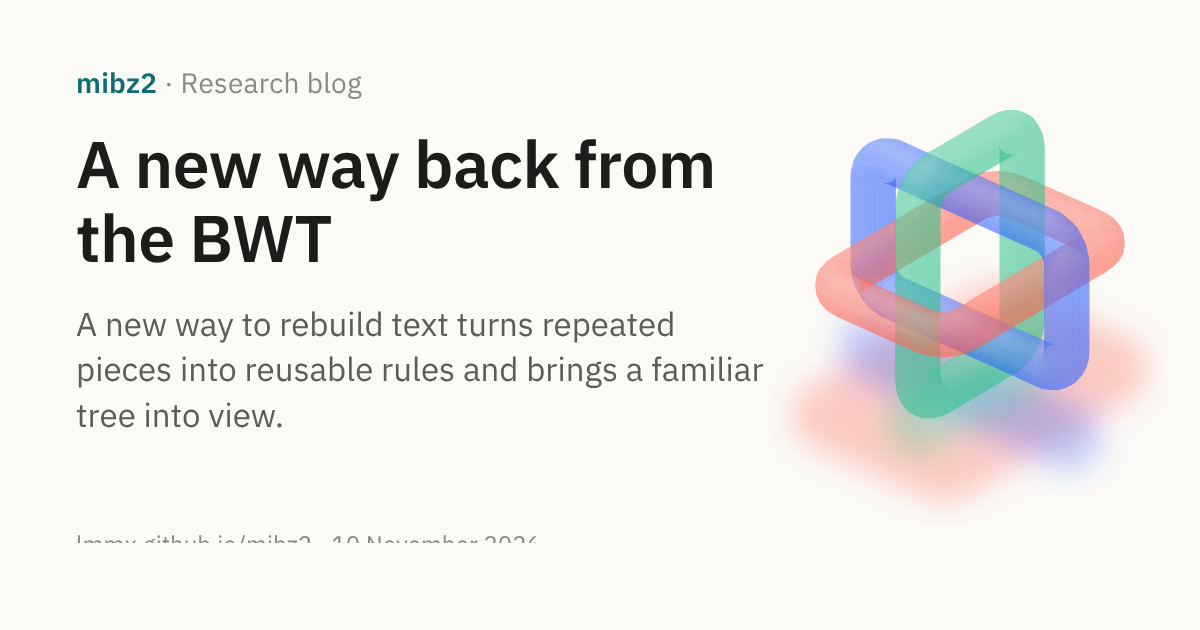
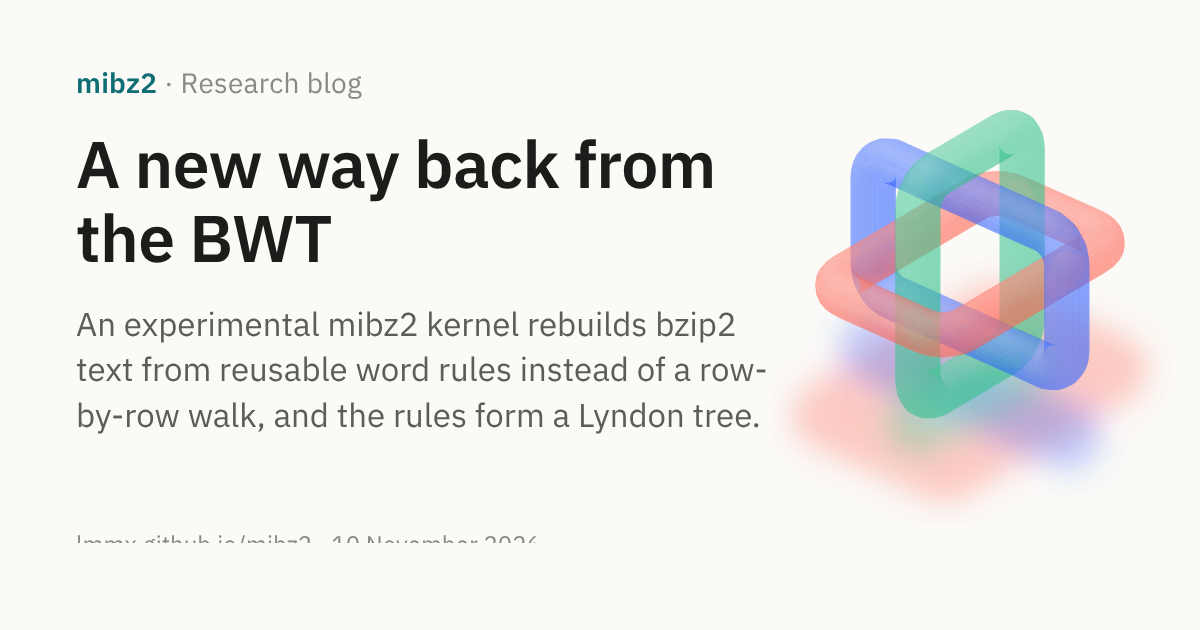
Blog: open the Rauzy–Veech post with the mechanism, and name the Lyndon tree outright

Changed region(s): [[0.0617, 0.6333, 0.6475, 0.6937], [0.0617, 0.4825, 0.6167, 0.5429], [0.0617, 0.573, 0.6475, 0.6032]]

diff --git a/docs/site/blog/2026-11-10-rauzy-veech-reconstruction.md b/docs/site/blog/2026-11-10-rauzy-veech-reconstruction.md
@@ -1,7 +1,7 @@
 ---
 title: "A new way back from the BWT"
 image: assets/social/blog-2026-11-10-rauzy-veech-reconstruction.png
-description: "A new way to rebuild text turns repeated pieces into reusable rules and brings a familiar tree into view."
+description: "An experimental mibz2 kernel rebuilds bzip2 text from reusable word rules instead of a row-by-row walk, and the rules form a Lyndon tree."
 ---
 
 <div class="post-hero" markdown>
@@ -13,10 +13,10 @@ description: "A new way to rebuild text turns repeated pieces into reusable rule
 
 # A new way back from the BWT
 
-A new way to rebuild text turns repeated pieces into reusable rules and brings a familiar tree into view.
+An experimental mibz2 kernel rebuilds bzip2 text from reusable word rules instead of a row-by-row walk, and the rules form a Lyndon tree.
 {: .post-dek }
 
-10 November 2026 · 10 min read · [Research in progress](#6-what-remains-before-production)
+10 November 2026 · 14 min read · [Research in progress](#6-what-remains-before-production)
 {: .post-meta }
 
 </div>
@@ -25,21 +25,27 @@ A new way to rebuild text turns repeated pieces into reusable rules and brings a
 
 </div>
 
-The Burrows–Wheeler transform rearranges a block's bytes so that compression can exploit repeated text. Reversing that rearrangement is one stage of bzip2 decoding. In mibz2's new experiment, a small program of reusable word-building rules reconstructs the block instead of a conventional pointer walk.
+bzip2 stores each block as the last column of its sorted rotations: the Burrows–Wheeler transform (BWT). To decode it, mibz2 walks a next-row map called **LF**. Each row yields one byte and the address of the next row, so the walk makes one dependent memory lookup per byte.
 
-That experiment has crossed its first performance threshold. A redesigned kernel recorded less time than its conventional inversion-stage reference in two local Wikidata censuses. The second recorded **1.604 against 2.172 nanoseconds per row**, a derived **26.2% reduction**.
+LF has structure that the walk ignores. A **run** is a maximal stretch of equal bytes in the last column. Within a run, LF sends consecutive rows to consecutive rows. So the whole map is fixed by one interval per run, each moved as a block. A Wikidata block has about 14 rows per run.
+
+MONODROMY's experiment never walks the rows. Read along LF, the block is a cyclic word of run letters, one per row. Each step picks one pair of adjacent letters, a **digram**, and replaces every occurrence with a new letter, recording one rule such as `X → AB`. Because each run moves as a block, a digram's occurrences fill one interval of rows, called a **cell**. So a step costs the same however many occurrences there are. When one letter is left, its rules spell the whole block. The step is Rauzy–Veech induction, and it works like RePair compression on the run letters.
+
+The work therefore scales with steps, not bytes. Wikidata needs 1.812 steps per run, about 0.13 per byte. The first kernel still lost, at 1.276 times the walk's time, because a step cost 14 ns. The **cells kernel** writes each cell once and moves nothing, cutting a step to 7.7 ns. Per run it executes 184 instructions against production's 260, with 2.1 simulated last-level cache misses against 8.7.
+
+That kernel recorded less time than its conventional reference, the table build and walk, in two local Wikidata censuses. The second, on an idle core, recorded **1.604 against 2.172 nanoseconds per row**, a derived **26.2% reduction**, and was faster on 204 of 233 blocks. Where runs are short the steps per byte rise and it loses: 3.9 times on prose, 9.8 times on uniform bytes.
 
 These are indicative single-thread results from the research container, using the fastest of five rounds per block. They are not CI performance evidence, and no confidence intervals accompany them. The new kernel starts with a run list; scanning a column to obtain that list is excluded. There is **no demonstrated gain over the shipped decoder**, and the experiment is not in production.
 
-There are two further findings. The right-end construction has a connection to a known mathematical object, the Lyndon tree, under the primitive-word condition explained below. Changing the order of operations also reduces their count, but the faster kernel cannot yet execute that order cheaply. Neither finding is an additional measured speedup.
+Two structural findings came with it. A **Lyndon word** is strictly smaller, alphabetically, than each of its proper suffixes; `aab` is one. Its **Lyndon tree** splits it just before its smallest proper suffix, then splits each part the same way: `aab` splits as `a | ab`, then `ab` as `a | b`. Expanded, the induction's rules are exactly the Lyndon tree of the block's smallest rotation. The journal proves this for any block that is not an exact repetition of a shorter word. Crochemore and Russo's [*Cartesian trees and Lyndon trees*](https://arxiv.org/abs/1712.08749) is a short introduction to these trees.
+
+The number of steps also depends on which digram goes next. Every order needs at least r₂ − 1 steps, where r₂ counts the distinct digrams: 1.220 per run on Wikidata. The right-end order takes 1.812; taking steps that create no new boundary first takes 1.279. No kernel yet runs that order cheaply, so it is a counted saving, not a measured speedup.
 
 The [research journal](https://github.com/lmmx/mibz2/blob/ae51b11a46014e5fec928b0e25235f532a473a9f/docs/journal/monodromy/2026-11-10-rauzy-veech.md) and [implementation](https://github.com/lmmx/mibz2/blob/ae51b11a46014e5fec928b0e25235f532a473a9f/examples/rauzy.rs) are pinned here at **ae51b11a46014e5fec928b0e25235f532a473a9f**. MONODROMY is the research lane developing this experiment.
 
 ## 1. How can rules replace a pointer walk?
 
-A conventional inverse transform builds a table telling it which row to visit next. Each row supplies a byte, and the next address depends on the current lookup. That dependency can leave the processor waiting for memory.
-
-The table is more structured than an arbitrary permutation. Within a **run**, a maximal stretch of equal bytes in the transformed column, the next-row map advances by one at each position. The map is called **LF**, for last-to-first: it connects positions in the last and first columns of the sorted rotations.
+Here is the whole mechanism on the smallest useful block. LF is short for last-to-first: it connects positions in the last and first columns of the sorted rotations.
 
 For a small example, sort the rotations of `aab`: `aab`, `aba`, `baa`. The last column is `baa`; the first is `aab`. Matching equal letters in occurrence order gives LF mappings 0→2, 1→0 and 2→1.
 
@@ -109,15 +115,15 @@ Joining words builds a tree: its leaves are bytes, and each internal node joins 
 
 A **primitive** word is not an exact repetition of a shorter word. Its lexicographically smallest rotation is a **Lyndon word**, smaller than each of its other rotations. For example, `aab` is smaller than `aba` and `baa`; its standard split is `a | ab`, followed by `a | b`.
 
-The journal identifies the right-end induction's expanded derivation tree with the Lyndon tree of that least rotation. It first relates the construction to a **Cartesian tree**: a hierarchy formed by repeatedly splitting a sequence at its minimum. Here the sequence contains ranks of rotations beginning at the word's internal boundaries. For `aab`, the rotations at positions zero, one and two have ranks zero, one and two. The internal sequence is therefore [1,2]. Its minimum splits after the first `a`, giving `a | ab`; the remaining split gives `a | b`. This agrees with the two rules above. In general, the standard Lyndon split uses the longest proper suffix which is itself a Lyndon word.
+The journal identifies the right-end induction's expanded derivation tree with the Lyndon tree of that least rotation. It first relates the construction to a **Cartesian tree**: a hierarchy formed by repeatedly splitting a sequence at its minimum. Here the sequence contains ranks of rotations beginning at the word's internal boundaries. For `aab`, the rotations at positions zero, one and two have ranks zero, one and two. The internal sequence is therefore [1,2]. Its minimum splits after the first `a`, giving `a | ab`; the remaining split gives `a | b`. This agrees with the two rules above. In general, the standard split of a Lyndon word cuts it just before its smallest proper suffix. That a Lyndon tree has the shape of the Cartesian tree of the word's suffix ranks is Hohlweg and Reutenauer's result; Crochemore and Russo set it out in §4 of [*Cartesian trees and Lyndon trees*](https://arxiv.org/abs/1712.08749).
 
 <figure class="bf-fig">
-<p class="bf-title">From the row map to a known tree</p>
+<p class="bf-title">How the row map leads to the Lyndon tree</p>
 <svg viewBox="0 0 540 820" role="img" aria-label="LF, a constant shift within each run, feeds right-end induction, which keeps word rules. Expanding the rules gives a Cartesian tree of rotation ranks, identified with the Lyndon tree of the least rotation for a primitive word. For aab the ranks at the inner cuts are 1 and 2; the tree splits a | ab, then a | b."><rect x="0" y="0" width="540" height="82" rx="8" class="bf-card" style="stroke: var(--bf-frame)"/><text x="18" y="34" class="bf-ts" style="font-size: 25px">LF on the block's rows</text><text x="18" y="66" class="bf-tm" style="font-size: 21px">a constant shift within each run</text><path d="M60 86V120" class="bf-arrow"/><path d="M53 111L60 120L67 111" class="bf-arrow"/><rect x="0" y="126" width="540" height="82" rx="8" class="bf-card" style="stroke: var(--bf-frame)"/><text x="18" y="160" class="bf-ts" style="font-size: 25px">Right-end induction</text><text x="18" y="192" class="bf-tm" style="font-size: 21px">keeps word rules: a grammar</text><path d="M60 212V246" class="bf-arrow"/><path d="M53 237L60 246L67 237" class="bf-arrow"/><text x="80" y="236" class="bf-tm" style="font-size: 21px">expand the rules</text><rect x="0" y="252" width="540" height="82" rx="8" class="bf-card" style="stroke: var(--bf-frame)"/><text x="18" y="286" class="bf-ts" style="font-size: 25px">Cartesian tree of rotation ranks</text><text x="18" y="318" class="bf-tm" style="font-size: 21px">split at the minimum, recursively</text><path d="M60 338V372" class="bf-arrow"/><path d="M53 363L60 372L67 363" class="bf-arrow"/><text x="80" y="362" class="bf-tm" style="font-size: 21px">identified with</text><rect x="0" y="378" width="540" height="82" rx="8" class="bf-card-hi" style="stroke: var(--bf-frame)"/><text x="18" y="412" class="bf-ts" style="font-size: 25px">Lyndon tree of the least rotation</text><text x="18" y="444" class="bf-tm" style="font-size: 21px">for a primitive word (journal §5.6)</text><path d="M0 476H540" class="bf-rule"/><text x="0" y="514" class="bf-ts" style="font-size: 23px">For aab: ranks at the inner cuts are [1, 2]</text><text x="0" y="544" class="bf-tm" style="font-size: 21px">split at the minimum: a | ab, then a | b</text><path d="M270 614L150 666" class="bf-link"/><path d="M270 614L390 666" class="bf-link"/><path d="M390 714L320 766" class="bf-link"/><path d="M390 714L460 766" class="bf-link"/><rect x="226.0" y="566" width="88" height="48" rx="6" class="bf-pill-hi"/><text x="270" y="599" class="bf-t-strong" text-anchor="middle" style="font-size: 25px">aab</text><rect x="122.0" y="666" width="56" height="48" rx="6" class="bf-pill"/><text x="150" y="699" class="bf-t-strong" text-anchor="middle" style="font-size: 25px">a</text><rect x="354.0" y="666" width="72" height="48" rx="6" class="bf-pill-hi"/><text x="390" y="699" class="bf-t-strong" text-anchor="middle" style="font-size: 25px">ab</text><rect x="292.0" y="766" width="56" height="48" rx="6" class="bf-pill"/><text x="320" y="799" class="bf-t-strong" text-anchor="middle" style="font-size: 25px">a</text><rect x="432.0" y="766" width="56" height="48" rx="6" class="bf-pill"/><text x="460" y="799" class="bf-t-strong" text-anchor="middle" style="font-size: 25px">b</text></svg>
 <figcaption>The identity concerns the expanded derivation tree; stored rules share subtrees, and the kernel need not build every node. It is proved in #351's journal and checked by simulators there, under the primitive-word condition (aab is primitive; abab is not). This post checked the record; it does not independently certify the theorem. Green: the two internal nodes, which are the two rules of §1.</figcaption>
 </figure>
 
-The known tree theory is not a new invention. The research contribution under examination is the connection from this interval construction to that tree without first reconstructing the text by a conventional walk.
+Lyndon trees themselves are long established. What is new is the route: this interval construction arrives at the Lyndon tree without first rebuilding the text by a conventional walk.
 
 The journal includes a proof and reports independent simulators and node comparisons. This post has checked that record, not independently certified the theorem. The primitive-word condition matters: `aab` satisfies it, whereas an exact repetition such as `abab` needs separate treatment.
 
@@ -153,6 +159,6 @@ The next comparison needs matched input boundaries and the relevant records-base
 
 At the source pin, the research lane's broader verification was still pending in the assignment record. No completed five-lens review is claimed here.
 
-The earlier conjecture about a tree has become a recorded structural identity. Building the full array of text-position ranks first, however, could pay the very reconstruction cost this approach seeks to avoid.
+MONODROMY's earlier conjecture, that the grammar follows the Cartesian tree of the rotations' ranks, is now a recorded identity: the grammar is the Lyndon tree. Computing every rotation's rank first, however, could cost as much as the reconstruction this approach seeks to avoid.
 
-The deeper opportunity is now clear. The program can exploit the hierarchy of words, but its cost depends on how cheaply it discovers and records that hierarchy. The next improvement must make the cheaper mathematical order cheap for the machine as well.
+The next question is whether the Lyndon tree can be built more cheaply than by running the induction step by step. Within the induction, the order with fewer steps only pays once the machine can execute it cheaply too.

diff --git a/docs/site/blog/index.md b/docs/site/blog/index.md
@@ -8,7 +8,7 @@ What mibz2's experiments are finding, and where they go next. The evidence behin
 post is in the [journals](../background/journals.md) and the pull requests they link.
 
 <div class="post-list">
-<a class="post-card" href="2026-11-10-rauzy-veech-reconstruction.md"><img src="../assets/social/blog-2026-11-10-rauzy-veech-reconstruction.png" alt="" loading="lazy"><span class="post-card-text"><span class="post-card-date">10 November 2026 · Research in progress</span><span class="post-card-title">A new way back from the BWT</span><span class="post-card-dek">A new way to rebuild text turns repeated pieces into reusable rules and brings a familiar tree into view.</span></span></a>
+<a class="post-card" href="2026-11-10-rauzy-veech-reconstruction.md"><img src="../assets/social/blog-2026-11-10-rauzy-veech-reconstruction.png" alt="" loading="lazy"><span class="post-card-text"><span class="post-card-date">10 November 2026 · Research in progress</span><span class="post-card-title">A new way back from the BWT</span><span class="post-card-dek">An experimental mibz2 kernel rebuilds bzip2 text from reusable word rules instead of a row-by-row walk, and the rules form a Lyndon tree.</span></span></a>
 <a class="post-card" href="2026-11-09-pit-crew-service-threads.md"><img src="../assets/social/blog-2026-11-09-pit-crew-service-threads.png" alt="" loading="lazy"><span class="post-card-text"><span class="post-card-date">9 November 2026 · Research in progress</span><span class="post-card-title">mibz2 gets a pit crew</span><span class="post-card-dek">Handing each block's serial steps to two dedicated threads gives mibz2 a rare double win, decoding 4.5% faster on ten cores with 13% less CPU.</span></span></a>
 <a class="post-card" href="2026-11-08-bwt-runs-from-mtf-codes.md"><img src="../assets/social/blog-2026-11-08-bwt-runs-from-mtf-codes.png" alt="" loading="lazy"><span class="post-card-text"><span class="post-card-date">8 November 2026 · Open question</span><span class="post-card-title">Reading the BWT's runs off bzip2's move-to-front codes</span><span class="post-card-dek">bzip2's move-to-front codes mark where each run of the BWT's last column starts, so the runs could be listed without writing the column. It is not built.</span></span></a>
 <a class="post-card" href="2026-11-08-inverse-bwt-navigation.md"><img src="../assets/social/blog-2026-11-08-inverse-bwt-navigation.png" alt="" loading="lazy"><span class="post-card-text"><span class="post-card-date">8 November 2026 · Open question</span><span class="post-card-title">The mathematical structure of inverse-BWT navigation</span><span class="post-card-dek">The inverse BWT's next-row map is one shift per run of equal bytes, so it can be stored per run rather than per row. Whether that beats mibz2's table is unproven.</span></span></a>
